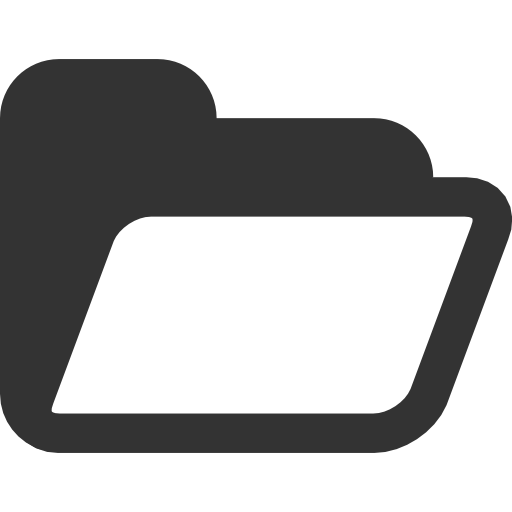
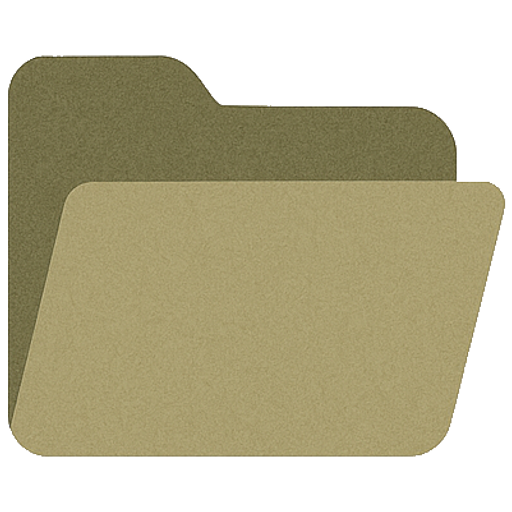
New pictos

diff --git a/VroomEditor/src/UserInterface/AssetBrowser/AssetFileMaterialAsset.cpp b/VroomEditor/src/UserInterface/AssetBrowser/AssetFileMaterialAsset.cpp
@@ -18,7 +18,7 @@ AssetFileMaterialAsset::~AssetFileMaterialAsset()
 
 std::string AssetFileMaterialAsset::getPictoAssetName() const
 {
-  return AssetFile::getPictoAssetName();
+  return "Resources/Editor/Picto/material_asset.png";
 }
 
 void AssetFileMaterialAsset::onAddCustomBehaviour()

diff --git a/VroomEditor/src/UserInterface/AssetBrowser/AssetFileMeshAsset.cpp b/VroomEditor/src/UserInterface/AssetBrowser/AssetFileMeshAsset.cpp
@@ -18,7 +18,7 @@ AssetFileMeshAsset::~AssetFileMeshAsset()
 
 std::string AssetFileMeshAsset::getPictoAssetName() const
 {
-  return AssetFile::getPictoAssetName();
+  return "Resources/Editor/Picto/mesh_asset.png";
 }
 
 void AssetFileMeshAsset::onAddCustomBehaviour()

diff --git a/VroomEditor/src/UserInterface/AssetBrowser/AssetFileSceneAsset.cpp b/VroomEditor/src/UserInterface/AssetBrowser/AssetFileSceneAsset.cpp
@@ -13,5 +13,5 @@ AssetFileSceneAsset::~AssetFileSceneAsset()
 
 std::string AssetFileSceneAsset::getPictoAssetName() const
 {
-  return AssetFile::getPictoAssetName();
+  return "Resources/Editor/Picto/scene_asset.png";
 }
